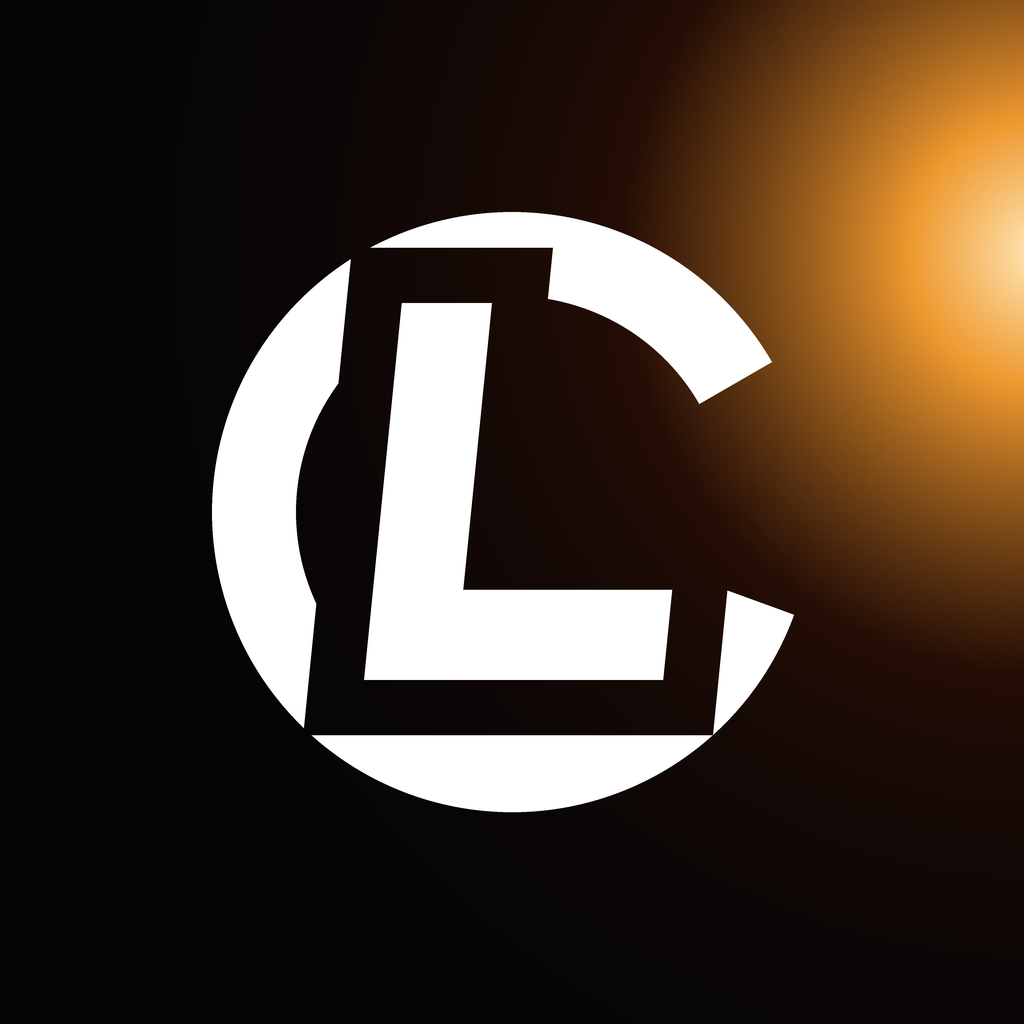
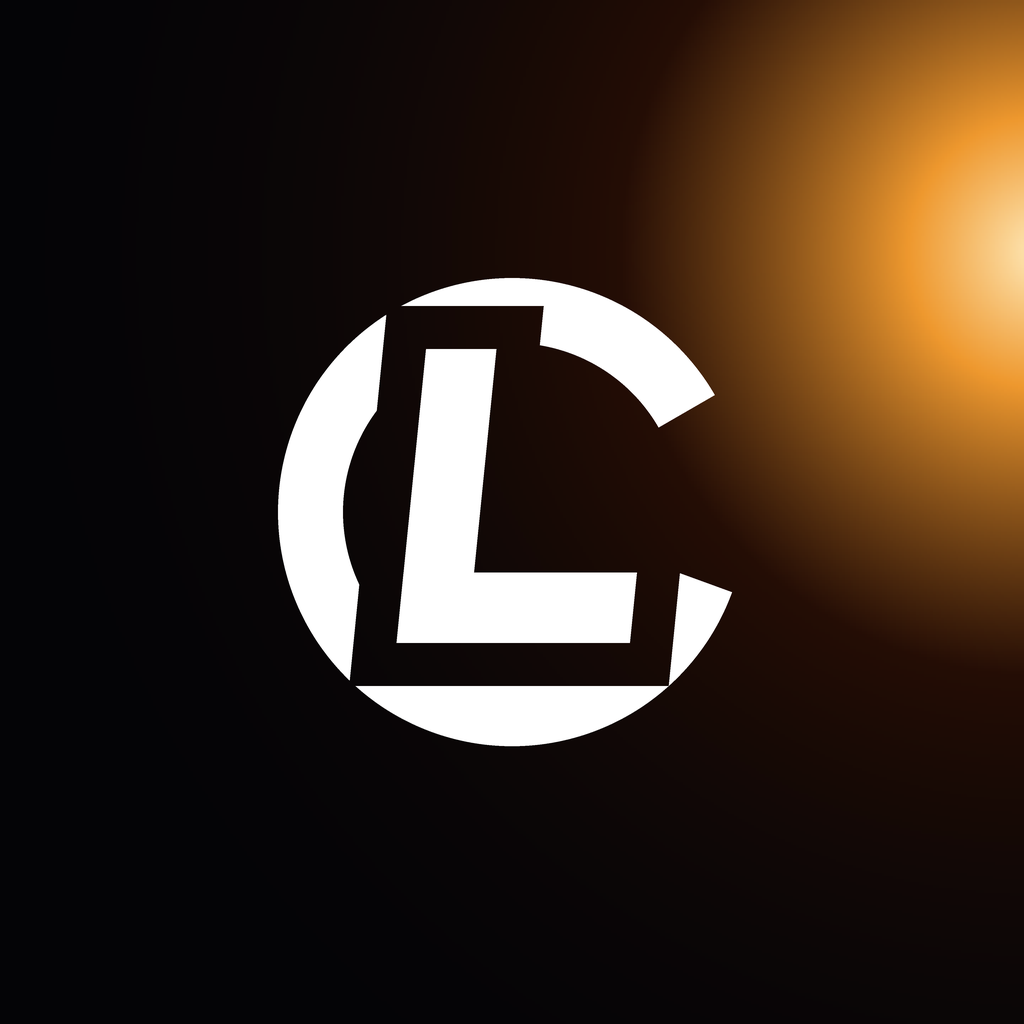
Аватар: знак уменьшен, вокруг появился воздух
Знак занимал почти весь кадр и упирался в края. Введён один множитель
MARK, сжимающий всю конструкцию к центру сетки: кольцо, L и зазор между
ними меняются вместе, пропорции сохраняются сами.

Значение 0.78 подобрано на глаз по тому, как знак смотрится в круглой
обрезке: воздуха достаточно, чтобы фигура не казалась вклеенной впритык,
и не столько, чтобы она потерялась.

Дальнейшая подгонка размера — правка одного числа, а не геометрии.

Claude-Session: https://claude.ai/code/session_015oxYo9NmTwSr7ibnzqvLb3

Changed region(s): [[0.1875, 0.1875, 0.7812, 0.8125]]

diff --git a/design/render_avatar.py b/design/render_avatar.py
@@ -30,7 +30,7 @@ LIGHT_DIST = 1.16           # ядро уходит за край: видно т
 # Знак строится плоскостями на своей сетке, а не шрифтом.
 GRID = 1000
 T = 88                     # толщина плоскости
-CUT = 54                    # зазор там, где плоскости перекрываются
+CUT = 42                    # зазор там, где плоскости перекрываются
 SHEAR = 0.10                # наклон: верх уходит вправо
 
 
@@ -86,12 +86,25 @@ def place(mask, rects, value):
         draw.polygon(poly, fill=value)
 
 
+MARK = 0.78                 # общий масштаб знака относительно кадра
+
+
+def scaled(rects):
+    """Сжатие к центру сетки: знак меняет размер целиком, пропорции
+    и зазоры сохраняются сами собой."""
+    m = GRID / 2
+    return [
+        tuple(m + (v - m) * MARK for v in (x0, y0, x1, y1))
+        for x0, y0, x1, y1 in rects
+    ]
+
+
 def letter_l():
     """L: вертикаль и подошва, положенные поверх кольца."""
-    return [
+    return scaled([
         (372, 296, 372 + T, 664),
         (372, 664 - T, 664, 664),
-    ]
+    ])
 
 
 def monogram():
@@ -104,8 +117,8 @@ def monogram():
     mask = Image.new("L", (S, S), 0)
     draw = ImageDraw.Draw(mask)
 
-    r = 300 * SS
-    w = 84 * SS
+    r = int(300 * MARK) * SS
+    w = int(84 * MARK) * SS
     draw.arc(
         [C - r, C - r, C + r, C + r],
         start=20, end=360 + GAP_DIR - 4,
